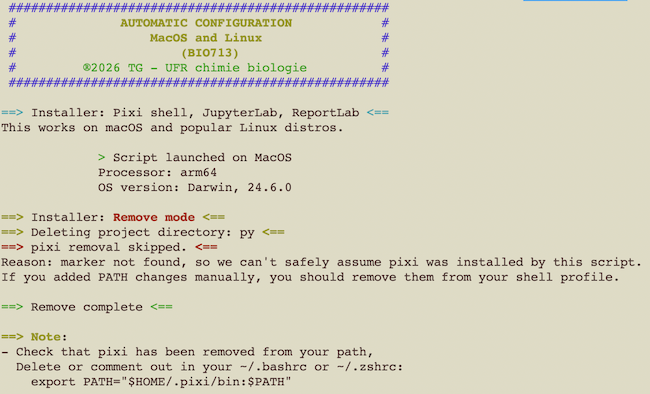
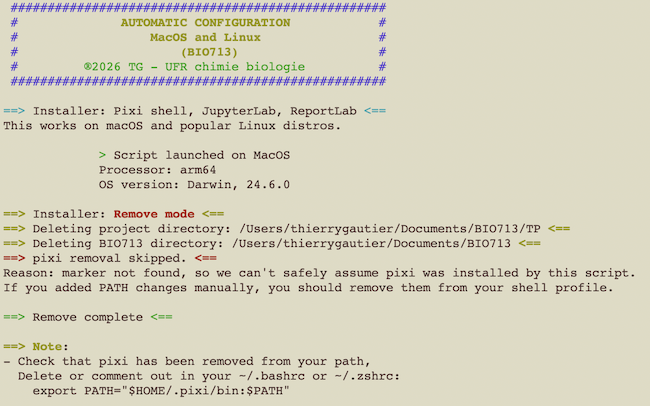
Ironing bugs and updating the README

diff --git a/README.md b/README.md
@@ -1,42 +1,37 @@
 # Bio713 Setup
 
 ## Goal
-These scripts check install the required environment and check for the presence of required Python modules for the course [BIO713](https://formations.univ-grenoble-alpes.fr/fr/catalogue-2021/master-XB/master-biologie-IAQKB0GE/parcours-molecular-and-cellular-biology-1re-annee-IK43J2QV/ue-from-cells-to-viruses-molecular-genetics-and-epigenetics-controls-JGROOI24.html) "From Cells to Viruses: Molecular Genetics and Epigenetics Controls".
+These scripts install and check the required environment for the course [BIO713](https://formations.univ-grenoble-alpes.fr/fr/catalogue-2021/master-XB/master-biologie-IAQKB0GE/parcours-molecular-and-cellular-biology-1re-annee-IK43J2QV/ue-from-cells-to-viruses-molecular-genetics-and-epigenetics-controls-JGROOI24.html) "From Cells to Viruses: Molecular Genetics and Epigenetics Controls".
 
 The course is proposed as part of the Master [Molecular and Cellular Biology](https://formations.univ-grenoble-alpes.fr/fr/catalogue-2021/master-XB/master-biologie-IAQKB0GE/parcours-molecular-and-cellular-biology-1re-annee-IK43J2QV.html) program.
 
-These scripts are still in development and can behave abnormally. They are provided "as is", without warranty as indicated in the [licence](LICENSE.md).\
+These scripts are still in development and can behave abnormally.\
+**They are provided "as is"**, without warranty as indicated in the [licence](LICENSE.md).\
 Please use carefully.
 
 ## Usage
 
-- Installation of the environment
+- Installation of the environment:
 
 ```
 ./Install.sh
 ```
 
-- Checking the presence of the required modules
-
-```
-python Setup.py
-```
-
-## Prerequisites
-
-The scripts should work on any computer running a modern OS (MacOS from Sequoia+, Linux or Windows 10+)
-Unix users (MacOS and Linux) will need the terminal.app located in `Applications/Utilities` on MacOS systems (Adapt names if your OS is not running in US English language).
-
-Use the PowerShell application on Windows machines.
-
-## Script bash
-
-- The script installs pixi and sets the directory hierarchy used in the practical. Then, the required python modules are install and insctructions are given to activate the jupyter environment.
-
 ![pixi](imgs/install.png)
 
-## Script python
+- Checking the validity of the installation:
 
+```
+./Install.sh --check
+```
+
+![pixi](imgs/check.png)
+
+A python script is also provided to check the correct environment in `Python` or in `Jupyter`:
+
+```
+python Check.py
+```
 - When one or more missing modules are detected:
 
 ![help](imgs/missing.png)
@@ -44,6 +39,34 @@ Use the PowerShell application on Windows machines.
 - When all modules have been detected:
 
 ![help](imgs/found.png)
+
+Alernatively, you can copy-paste the code into a Jupyter cell and run the cell.
+
+## Prerequisites
+
+The scripts should work on any computer running a modern OS (MacOS from Sequoia+, or Linux)
+Unix users (MacOS and Linux) will need the terminal.app located in `Applications/Utilities` on MacOS systems (Adapt names if your OS is not running in US English language).
+
+Use the `PowerShell` application on Windows machines.
+
+The activation and the manipulation of the environment will be discussed during the class.
+
+## Desinstallation
+
+At the end of the course, you can remove the whole install by running again the bash script
+
+```
+./Install.sh --remove
+```
+
+![pixi](imgs/remove.png)
+
+The script will attempt to remove as much as possible:
+
+- The complete folder hierarchy containing all the downloaded data (`~/Documents/BIO713` and enclosed directories).
+- The module containing folder located in `~/Documents/BIO713/TP`.
+- The `pixi` program should be removed only when it was installed by the `Install.sh` script.
+- When `pixi` has been removed either programatically or manually, check that the path has also been cleaned by removing or commenting the line in your shell config file. Typically `~/.bashrc`, `~/.zshrc` or eventually `~/.config/fish/config.fish`. The file to look for is `export PATH="$HOME/.pixi/bin:$PATH"` or `fish_add_path $HOME/.pixi/bin`.
 
 ## Copyright
 
